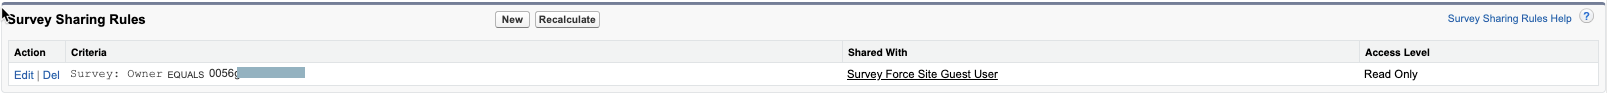
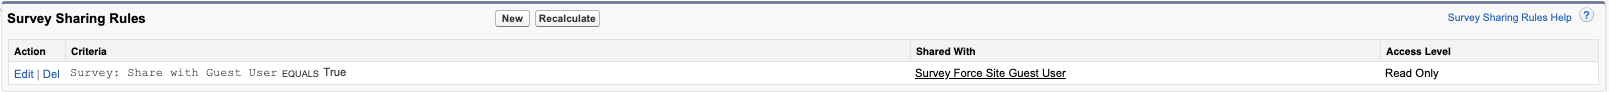
Fix all erros, Make changes to work with new Guest user security, update readme

diff --git a/readme.md b/readme.md
@@ -59,6 +59,8 @@ Make sure that you check access for Force.com site guest user if you plan to emb
 3. "Secure guest user record access": Enabling this will stop Guest user access to Salesforce org data. Enabling this may result in Guest user not having access to Survey Force records. More details are at: https://help.salesforce.com/articleView?id=networks_secure_guest_user_sharing.htm&type=5. Be careful when enabling this feature.
    * In future, you will not be able to give view/modify all permissions to Guest users
    * For this to work, DML code for Guest user has been moved to a without sharing class (ViewSurveyControllerWithoutSharing.cls)
-   * After creating survey, use a trigger to assign OwnerId to Site Guest User
-   * Create a sharing rule to allow read access to Survey objecgt (and all child objects that includes Survey Questions); this is now required along with ownership transfer for reading
-  ![SurveyForce Guest User Sharing Rule](assets/images/SurveyForce_GuestUser_SharingRule.png)
+   * Create a sharing rule to allow read access to Survey object (and all child objects that includes Survey Questions)
+     * This is for Guest user to be able to view Survey and Survey Questions
+   ![SurveyForce Guest User Sharing Rule](assets/images/SurveyForce_GuestUser_SharingRule.png)
+   * This sharing rule is based on a new field added to Survey__c object which will be True by default. To remove access from Guest user, you can change the default check option OR create a Process Builder process or trigger to remove it conditionally based on data
+   * Do NOT assign Guest user as Owner of Sharing rule (only sharing rule is needed)
